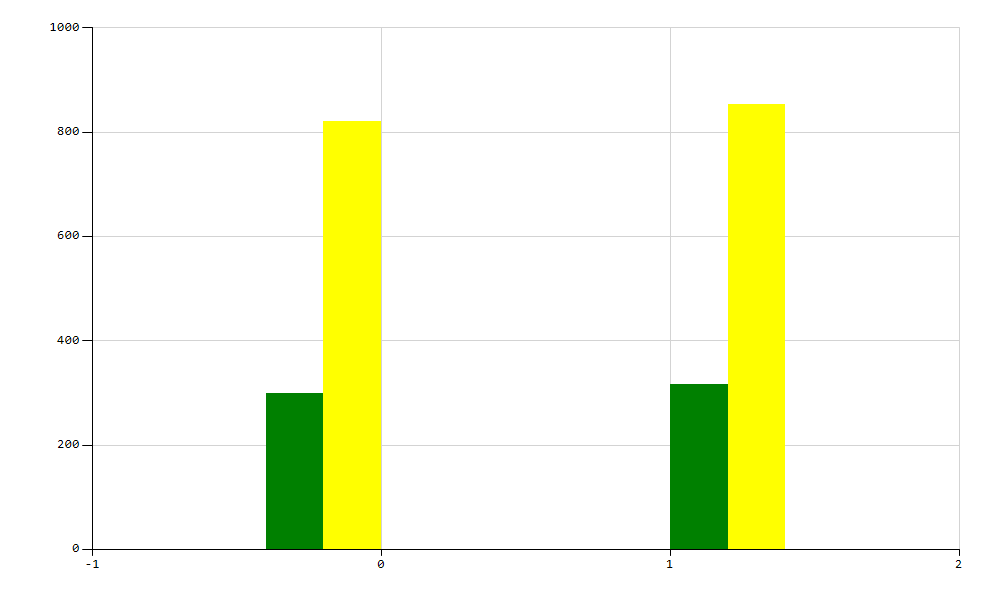
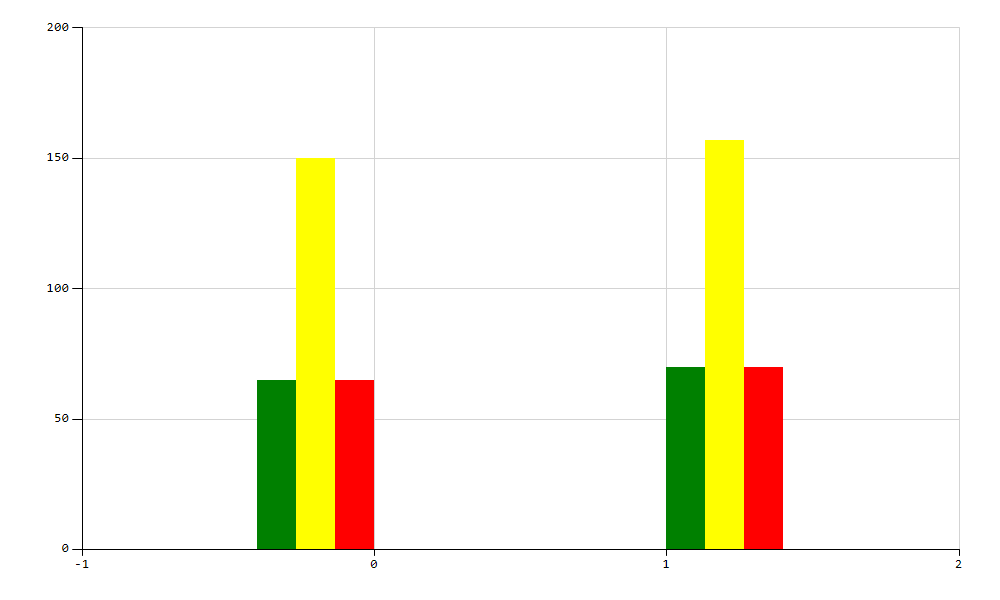
pagemigration offline

diff --git a/AlgorytmyOnline/AlgorytmyOnline/L4/Program.cs b/AlgorytmyOnline/AlgorytmyOnline/L4/Program.cs
@@ -14,6 +14,8 @@ namespace L4
     {
         static void Main(string[] args)
         {
+           // GetRandomValues(1024, new DoubleHarmonicSchedule(64));
+           // GetRandomValues(1024, new HarmonicSchedule(64));
             Test();
 
 
@@ -31,28 +33,38 @@ namespace L4
                 new DoubleHarmonicSchedule(64)
             }.ForEach(random =>
             {
-                int mh, mt, rh, rt;
-                mh = mt = rh = rt = 0;
+                int mh, mt, rh, rt, offh, offt;
+                mh = mt = rh = rt = offh = offt = 0;
 
-                for (int t = 0; t < 100; t++)
+                for (int t = 0; t < 10; t++)
                 {
+                    var start = new Random().Next(64);
                     var test = GetRandomValues(1024, random);
                     var hiper = new HiperKostkaCost();
                     var torus = new TorusCost();
-                    mh += new MoveToMinPageMigration(hiper).Calculate(test);
-                    mt += new MoveToMinPageMigration(torus).Calculate(test);
-                    rh += new RandomPageMigration(hiper).Calculate(test);
-                    rt += new RandomPageMigration(torus).Calculate(test);
+                    mh += new MoveToMinPageMigration(start, hiper).Calculate(test);
+                    mt += new MoveToMinPageMigration(start, torus).Calculate(test);
+                    rh += new RandomPageMigration(start, hiper).Calculate(test);
+                    rt += new RandomPageMigration(start, torus).Calculate(test);
+                    offh += new OfflinePageMigration(start, hiper).Calculate(test);
+                    offt += new OfflinePageMigration(start, torus).Calculate(test);
+
                 }
-                mh /= 100;
-                mt /= 100;
-                rh /= 100;
-                rt /= 100;
+                mh /= 10;
+                mt /= 10;
+                rh /= 10;
+                rt /= 10;
+                offh /= 10;
+                offt /= 10;
                 var graph = new GraphGenerator(1000, 600);
                 graph.AddSeries("mtmhyper", System.Windows.Forms.DataVisualization.Charting.SeriesChartType.Column, new List<double> { 0.0 }, new List<double> { mh }, Color.Green);
                 graph.AddSeries("randhyper", System.Windows.Forms.DataVisualization.Charting.SeriesChartType.Column, new List<double> { 0.0 }, new List<double> { rh }, Color.Yellow);
+                graph.AddSeries("offhyper", System.Windows.Forms.DataVisualization.Charting.SeriesChartType.Column, new List<double> { 0.0 }, new List<double> { offh }, Color.Red);
+
                 graph.AddSeries("mtmtorus", System.Windows.Forms.DataVisualization.Charting.SeriesChartType.Column, new List<double> { 1.0 }, new List<double> { mt }, Color.Green);
                 graph.AddSeries("randtorus", System.Windows.Forms.DataVisualization.Charting.SeriesChartType.Column, new List<double> { 1.0 }, new List<double> { rt }, Color.Yellow);
+                graph.AddSeries("offtorus", System.Windows.Forms.DataVisualization.Charting.SeriesChartType.Column, new List<double> { 1.0 }, new List<double> { offt }, Color.Red);
+
                 graph.SaveGraph(random.GetType().ToString());
 
             });

diff --git a/AlgorytmyOnline/AlgorytmyOnline/L4/Algo/OfflinePageMigration.cs b/AlgorytmyOnline/AlgorytmyOnline/L4/Algo/OfflinePageMigration.cs
@@ -1,0 +1,54 @@
+using System;
+using System.Collections.Generic;
+using System.Linq;
+using System.Text;
+using System.Threading.Tasks;
+
+namespace L4.Algo
+{
+    public class CostElement
+    {
+        public int Id { get; set; }
+        public int Cost { get; set; }
+        public int ParentId { get; set; }
+    }
+
+
+
+    public class OfflinePageMigration : AbstractPageMigration
+    {
+        private List<List<CostElement>> _costList;
+
+        public OfflinePageMigration(int current, ICost cost) : this(current, 32, 64, cost) { }
+
+        public OfflinePageMigration(int current, int changeBaseCost, int size, ICost cost) : base(current, changeBaseCost, size, cost)
+        {
+            _costList = new List<List<CostElement>>();
+            _costList.Add(new List<CostElement> { new CostElement { Cost = 0, Id = current, ParentId = 0 } });
+        }
+
+        public override int Calculate(List<int> listOfMigration)
+        {
+            for(int i = 0; i< listOfMigration.Count; i++)
+            {
+                var element = listOfMigration[i];
+                _costList.Add(new List<CostElement>());
+                Enumerable.Range(0, 64).ToList().ForEach(x =>
+                {
+                    var parent = _costList[i]
+                        .OrderBy(y => y.Cost + _changeBaseCost * _cost.GetCost(x, y.Id) + _cost.GetCost(x, element))
+                        .First();
+
+                    _costList[i+1].Add(new CostElement
+                    {
+                        Id = x,
+                        ParentId = parent.Id,
+                        Cost = parent.Cost + _changeBaseCost * _cost.GetCost(x, parent.Id) + _cost.GetCost(x, element)
+                    });
+                });
+            }
+
+            return _costList.Last().Min(x => x.Cost);
+        }
+    }
+}

diff --git a/AlgorytmyOnline/AlgorytmyOnline/L4/Algo/RandomPageMigration.cs b/AlgorytmyOnline/AlgorytmyOnline/L4/Algo/RandomPageMigration.cs
@@ -9,7 +9,7 @@ namespace L4.Algo
     public class RandomPageMigration : AbstractPageMigration
     {
         private Random _random;
-        public RandomPageMigration(ICost cost) : this(0, 32, 64, cost, new Random()) { }
+        public RandomPageMigration(int current, ICost cost) : this(current, 32, 64, cost, new Random()) { }
 
         public RandomPageMigration(int current, int changeBaseCost, int size, ICost cost, Random random) : base(current, changeBaseCost, size, cost)
         {

diff --git a/AlgorytmyOnline/AlgorytmyOnline/Lista2/Schedule/HarmonicSchedule.cs b/AlgorytmyOnline/AlgorytmyOnline/Lista2/Schedule/HarmonicSchedule.cs
@@ -23,9 +23,13 @@ namespace Lista2.Schedule
         public override int GetNextNumber()
         {
             var x = _random.NextDouble();
+            double sum = 0;
+            for (int i = 1; i <= _n; i++)
+            {
+                sum += 1.0 / (_hr * i);
+                if (x <= sum) return i;
 
-            for(int i = 1; i<=_n; i++)
-                if (x >= 1.0 / (_hr * i)) return i;
+            }
             return _n;
         }
     }

diff --git a/AlgorytmyOnline/AlgorytmyOnline/Lista2/Schedule/DoubleHarmonicSchedule.cs b/AlgorytmyOnline/AlgorytmyOnline/Lista2/Schedule/DoubleHarmonicSchedule.cs
@@ -21,9 +21,12 @@ namespace Lista2.Schedule
         public override int GetNextNumber()
         {
             var x = _random.NextDouble();
-
+            double sum = 0;
             for (int i = 1; i <= _n; i++)
-                if (x >= 1.0 / (_hr * Math.Pow(i,2.0))) return i;
+            {
+                sum += 1.0 / (_hr * Math.Pow(i, 2.0));
+                if (x <= sum) return i;
+            }
             return _n;
         }
     }

diff --git a/AlgorytmyOnline/AlgorytmyOnline/L4/Algo/MoveToMinPageMigration.cs b/AlgorytmyOnline/AlgorytmyOnline/L4/Algo/MoveToMinPageMigration.cs
@@ -8,7 +8,7 @@ namespace L4.Algo
 {
     public class MoveToMinPageMigration : AbstractPageMigration
     {
-        public MoveToMinPageMigration(ICost cost) : this(0, 32, 64, cost) { }
+        public MoveToMinPageMigration(int current, ICost cost) : this(current, 32, 64, cost) { }
 
         public MoveToMinPageMigration(int current, int changeBaseCost, int size, ICost cost) : base(current, changeBaseCost, size, cost) { }
 
